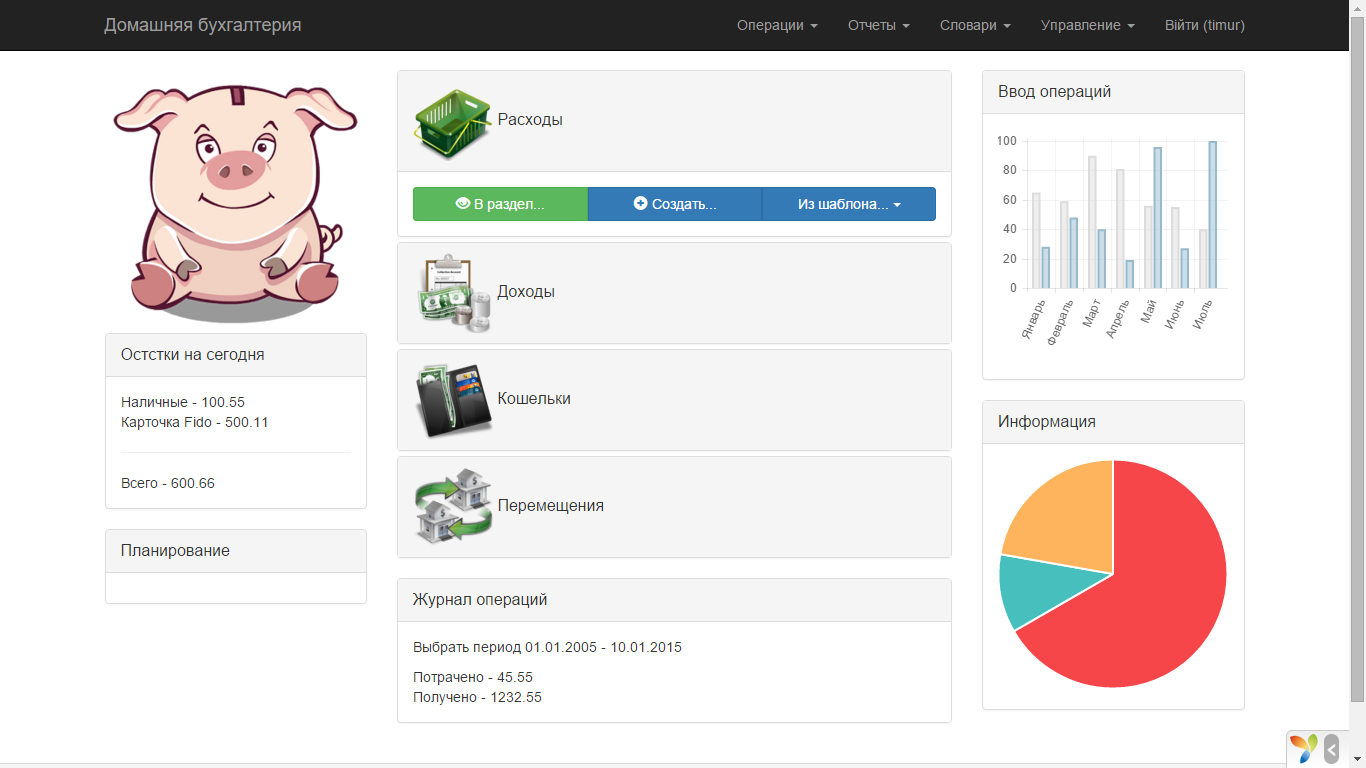
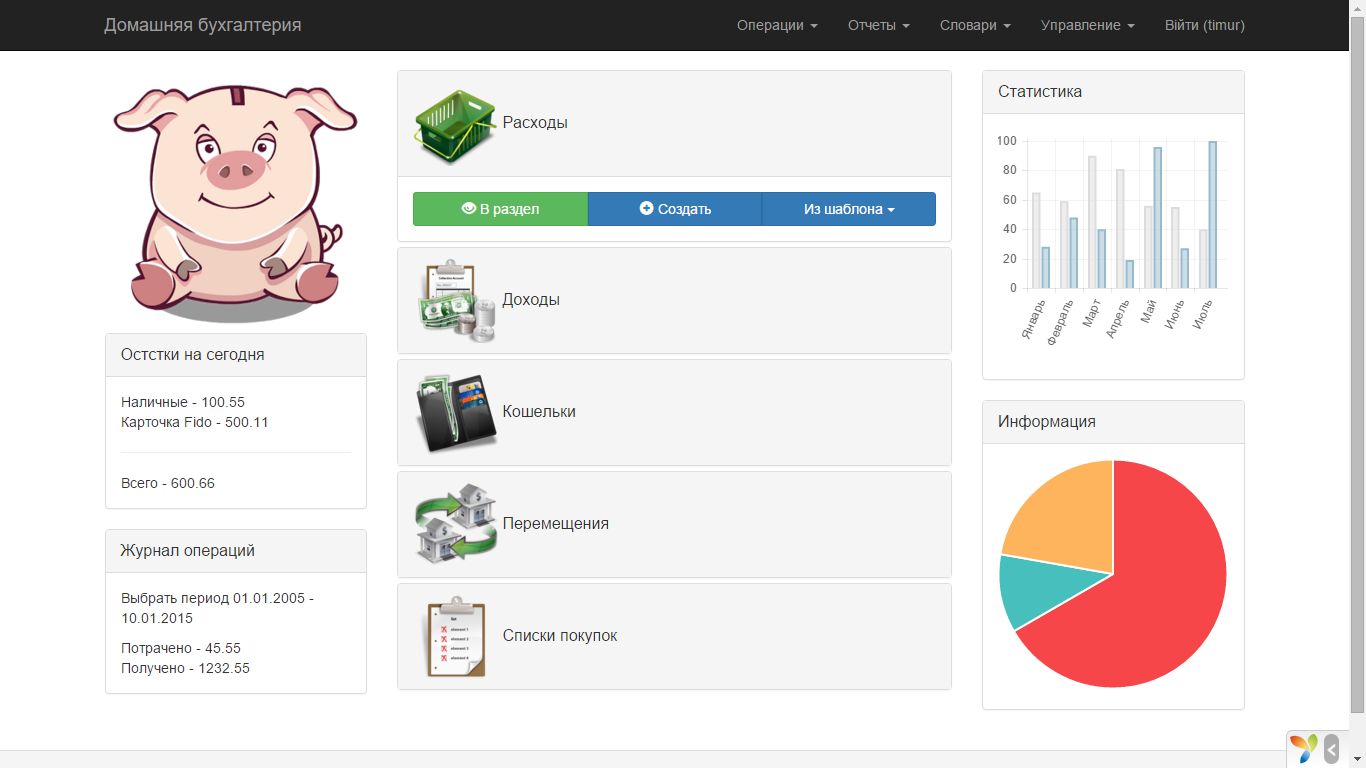
Нерекурсивная иерархия категорий расходов

diff --git a/views/main/index.php b/views/main/index.php
@@ -8,60 +8,68 @@ use yii\bootstrap\ButtonGroup;
 use yii\bootstrap\Collapse;
 ?>
 <div class="row">
+
+
     <div class="col-md-3 col-lg-3">
+
         <img class="visible-md visible-lg" src="<?= Yii::$app->request->baseUrl . '/images/logo.png'; ?>" style='width: 100%' alt="<?= Yii::$app->name; ?>">
         <div class="panel panel-default">
             <div class="panel-heading">
                 <div class="panel-title">Остстки на сегодня</div>
             </div>     
             <div class="panel-body">
-
-
                 Наличные - 100.55<br/>
                 Карточка Fido - 500.11
                 <hr />
                 Всего - 600.66
-
-
             </div>                     
         </div>
+
+
+
         <div class="panel panel-default">
             <div class="panel-heading">
-                <div class="panel-title">Планирование</div>
+                <div class="panel-title">Журнал операций</div>
             </div>     
             <div class="panel-body">
+                <p>Выбрать период 01.01.2005 - 10.01.2015</p>
+                Потрачено - 45.55 <br />
+                Получено - 1232.55
             </div>                     
         </div>
+
     </div>
+
+
+
+
+
     <div class="col-md-6 col-lg-6">
-
-
-
-
         <!-- Блок управления -->
+
         <?php
         //Расходы
         $expense = ButtonGroup::widget([
                     'buttons' => [
 
-                        Html::a('<span class="glyphicon glyphicon-eye-open"></span> В раздел...', ['/expense'], [
+                        Html::a('<span class="glyphicon glyphicon-eye-open"></span> В раздел', ['/expense'], [
                             'class' => 'btn btn-success btn-block',
-                            'title' => 'В раздел...',
+                            'title' => 'В раздел',
                             'options' => [
                             //'style' => "width:100%"
                             ]
                                 ]
                         ),
-                        Html::a('<span class="glyphicon glyphicon-plus-sign"></span> Создать...', ['/expense/create'], [
+                        Html::a('<span class="glyphicon glyphicon-plus-sign"></span> Создать', ['/expense/create'], [
                             'class' => 'btn btn-primary',
-                            'title' => 'Создать...',
+                            'title' => 'Создать',
                             'options' => [
                             //'style' => "width:100%"
                             ]
                                 ]
                         ),
                         ButtonDropdown::widget([
-                            'label' => 'Из шаблона...',
+                            'label' => 'Из шаблона',
                             //'split' => true,
                             'dropdown' => [
                                 'items' => Expensetemp::getItems(),
@@ -69,7 +77,7 @@ use yii\bootstrap\Collapse;
                             'options' => [
                                 //'style' => "width:100%",
                                 'class' => 'btn-primary',
-                                'title' => 'Создать из шаблона...']
+                                'title' => 'Создать из шаблона']
                         ]),
                     ],
                     'options' => [
@@ -83,17 +91,17 @@ use yii\bootstrap\Collapse;
         $income = ButtonGroup::widget([
                     'buttons' => [
 
-                        Html::a('<span class="glyphicon glyphicon-eye-open"></span> В раздел...', ['/income'], [
+                        Html::a('<span class="glyphicon glyphicon-eye-open"></span> В раздел', ['/income'], [
                             'class' => 'btn btn-success btn-block',
-                            'title' => 'В раздел...',
+                            'title' => 'В раздел',
                             'options' => [
                             //'style' => "width:100%"
                             ]
                                 ]
                         ),
-                        Html::a('<span class="glyphicon glyphicon-plus-sign"></span> Создать...', ['/income/create'], [
+                        Html::a('<span class="glyphicon glyphicon-plus-sign"></span> Создать', ['/income/create'], [
                             'class' => 'btn btn-primary',
-                            'title' => 'Создать...',
+                            'title' => 'Создать',
                             'options' => [
                             //'style' => "width:100%"
                             ]
@@ -110,17 +118,17 @@ use yii\bootstrap\Collapse;
         $wallet = ButtonGroup::widget([
                     'buttons' => [
 
-                        Html::a('<span class="glyphicon glyphicon-eye-open"></span> В раздел...', ['/wallet'], [
+                        Html::a('<span class="glyphicon glyphicon-eye-open"></span> В раздел', ['/wallet'], [
                             'class' => 'btn btn-success btn-block',
-                            'title' => 'В раздел...',
+                            'title' => 'В раздел',
                             'options' => [
                             //'style' => "width:100%"
                             ]
                                 ]
                         ),
-                        Html::a('<span class="glyphicon glyphicon-plus-sign"></span> Создать...', ['/wallet/create'], [
+                        Html::a('<span class="glyphicon glyphicon-plus-sign"></span> Создать', ['/wallet/create'], [
                             'class' => 'btn btn-primary',
-                            'title' => 'Создать...',
+                            'title' => 'Создать',
                             'options' => [
                             //'style' => "width:100%"
                             ]
@@ -137,17 +145,17 @@ use yii\bootstrap\Collapse;
         $move = ButtonGroup::widget([
                     'buttons' => [
 
-                        Html::a('<span class="glyphicon glyphicon-eye-open"></span> В раздел...', ['/move'], [
+                        Html::a('<span class="glyphicon glyphicon-eye-open"></span> В раздел', ['/move'], [
                             'class' => 'btn btn-success btn-block',
-                            'title' => 'В раздел...',
+                            'title' => 'В раздел',
                             'options' => [
                             //'style' => "width:100%"
                             ]
                                 ]
                         ),
-                        Html::a('<span class="glyphicon glyphicon-plus-sign"></span> Создать...', ['/move/create'], [
+                        Html::a('<span class="glyphicon glyphicon-plus-sign"></span> Создать', ['/move/create'], [
                             'class' => 'btn btn-primary',
-                            'title' => 'Создать...',
+                            'title' => 'Создать',
                             'options' => [
                             //'style' => "width:100%"
                             ]
@@ -166,43 +174,38 @@ use yii\bootstrap\Collapse;
             'items' => [
                 // equivalent to the above
                 [
-                    'label' => '<img src="' . Yii::$app->request->baseUrl . '/images/section/expense.png' . ' "width="80" "alt="альтернативный текст" > Расходы',
+                    'label' => '<img src="' . Yii::$app->request->baseUrl . '/images/section/expense.png' . ' "width="85" "alt="альтернативный текст" > Расходы',
                     'content' => $expense,
                     // open its content by default
                     'contentOptions' => ['class' => 'in']
                 ],
                 [
-                    'label' => '<img src="' . Yii::$app->request->baseUrl . '/images/section/income.png' . ' "width="80" "alt="альтернативный текст" > Доходы',
+                    'label' => '<img src="' . Yii::$app->request->baseUrl . '/images/section/income.png' . ' "width="85" "alt="альтернативный текст" > Доходы',
                     'content' => $income,
                 ],
                 [
-                    'label' => '<img src="' . Yii::$app->request->baseUrl . '/images/section/wallet.png' . ' "width="80" "alt="альтернативный текст" > Кошельки',
+                    'label' => '<img src="' . Yii::$app->request->baseUrl . '/images/section/wallet.png' . ' "width="85" "alt="альтернативный текст" > Кошельки',
                     'content' => $wallet,
                 ],
                 [
-                    'label' => '<img src="' . Yii::$app->request->baseUrl . '/images/section/move.png' . ' "width="80" "alt="альтернативный текст" > Перемещения',
+                    'label' => '<img src="' . Yii::$app->request->baseUrl . '/images/section/move.png' . ' "width="85" "alt="альтернативный текст" > Перемещения',
                     'content' => $move,
+                ],
+                [
+                    'label' => '<img src="' . Yii::$app->request->baseUrl . '/images/section/list.png' . ' "width="85" "alt="альтернативный текст" > Списки покупок',
+                    'content' => 'Реализовать раздел',
                 ],
             ]
         ]);
         ?>
         <!-- Блок управления (конец) -->
 
-        <div class="panel panel-default">
-            <div class="panel-heading">
-                <div class="panel-title">Журнал операций</div>
-            </div>     
-            <div class="panel-body">
-                <p>Выбрать период 01.01.2005 - 10.01.2015</p>
-                Потрачено - 45.55 <br />
-                Получено - 1232.55
-            </div>                     
-        </div>
+
     </div>
     <div class="col-md-3 col-lg-3">
         <div class="panel panel-default">
             <div class="panel-heading">
-                <div class="panel-title">Ввод операций</div>
+                <div class="panel-title">Статистика</div>
             </div>     
             <div class="panel-body">
                 <?=

diff --git a/models/Categoryexp.php b/models/Categoryexp.php
@@ -8,6 +8,7 @@ namespace app\models;
  * @property integer $id
  * @property integer $parent_id
  * @property string $name
+ * @property string $path
  *
  * @property Categoryexp $parent
  * @property Categoryexp[] $categoryexps
@@ -29,7 +30,8 @@ class Categoryexp extends \yii\db\ActiveRecord {
             [['parent_id'], 'integer'],
             [['name'], 'required'],
             [['name'], 'unique'],
-            [['name'], 'string', 'max' => 20]
+            [['name'], 'string', 'max' => 20],
+            [['path'], 'string', 'max' => 60]
         ];
     }
 
@@ -80,16 +82,35 @@ class Categoryexp extends \yii\db\ActiveRecord {
         }
     }
 
-    //Мои методы*********************************************************
+    /**
+     * Устанавливает значение поля path
+     * @param type $id
+     * @return string
+     */
+    public function setPath($id) {
+
+        $path = $id;
+
+        while (Self::findOne($id)['parent_id'] > 0) {
+            $path = Self::findOne($id)['parent_id'] . '.' . $path;
+            $id = Self::findOne($id)['parent_id'];
+        }
+        $this->path = '0' . '.' . $path;
+        $this->save();
+    }
 
     public function getCountSubitems($id) {
 
+
         $result = Categoryexp::find()
-                ->where(['parent_id' => $id])
+                ->Where(['LIKE', 'path', Self::findOne($id)['path'] . '.'])
+                //->where(['parent_id' => $id])
                 ->count();
 
         return $result;
     }
+
+    //Методы дерева*********************************************************
 
     /**
      * Get All categories data prepared for insert into $form->dropDownList (Возаращает иерархию категорий НОВЫЙ ВАРИАНТ)
@@ -190,4 +211,5 @@ class Categoryexp extends \yii\db\ActiveRecord {
         return $returnArray;
     }
 
+    //Методы дерева (конец) *********************************************************
 }

diff --git a/controllers/CategoryexpController.php b/controllers/CategoryexpController.php
@@ -56,6 +56,9 @@ class CategoryexpController extends Controller {
         $model->parent_id = $parent_id;
 
         if ($model->load(Yii::$app->request->post()) && $model->save()) {
+            //Обновляем поле path
+            $model->setPath($model->id);
+
             return $this->redirect(['index', 'parent_id' => $model->parent_id]);
         } else {
             return $this->render('create', [
@@ -75,6 +78,9 @@ class CategoryexpController extends Controller {
         $model->parent_id = $parent_id;
 
         if ($model->load(Yii::$app->request->post()) && $model->save()) {
+
+            //Обновляем поле path
+            $model->setPath($model->id);
             return $this->redirect(['index', 'parent_id' => $model->parent_id]);
         } else {
             return $this->render('update', [
